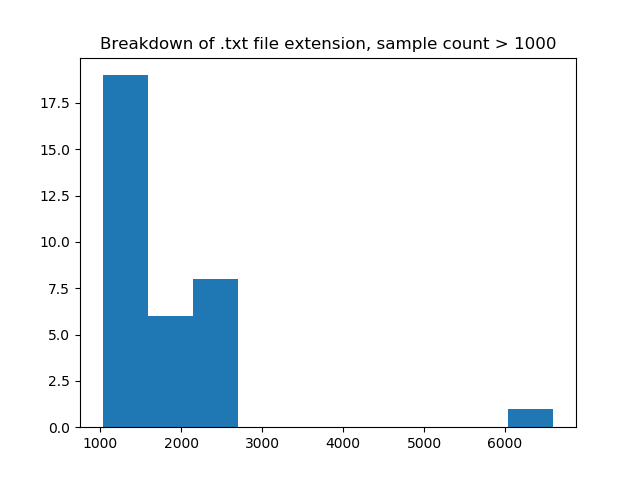
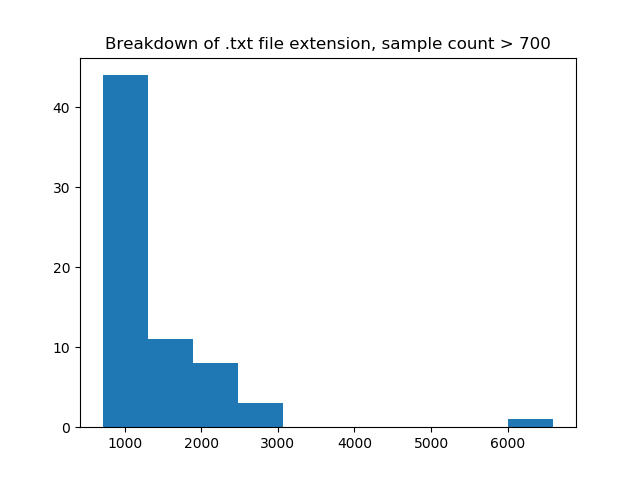
adding images

diff --git a/preprocess/1.count_extensions.py b/preprocess/1.count_extensions.py
@@ -140,6 +140,24 @@ for tick in ax.get_xticklabels():
 plt.title("Top %s extensions, ordered by total samples across ~10K repositories." %len(x))
 plt.show()
 
+# Make loglog plot and say it's zipfy
+def filter_and_logplot(d, value=100, title=None):
+    if title is None:
+        title = "LogLog Plot for Code Samples by Extension Type, > %s samples" %value
+    filtered = filter_by_value(d, value=value)
+    sorted_counts = sort_dict(filtered)
+    x,y = zip(*sorted_counts)
+    plt.loglog(list(range(1,len(y)+1)), y)
+    plt.title(title)
+    plt.show()
+    return filtered
+
+# The plot is almost linear, which means that the extension with rank K appears
+# about 1/K times the most highly ranked extension. This means that the distribution
+# of samples (representing overall proportion of extension types) is roughly 
+# following the pareto principle.
+
+filtered = filter_and_logplot(ext_counts, value=10000)
 
 # Here is my early thinking about this result. First, these are definitely
 # somewhat scientific code repositories, because we see csv and json in the top
@@ -214,31 +232,109 @@ for image_pkl in recursive_find(data_base, 'images_*.pkl'):
 
 # Again, let's look at the distribution for the top .txt files.
 
-title = "Breakdown of .txt file extension, sample count > 1000"
-filtered = filter_and_plot(txt_counts, value=1000, title=title)
+title = "Breakdown of .txt file extension, sample count > 700"
+filtered = filter_and_plot(txt_counts, value=700, title=title)
 
 # The plot isn't super meaningful, but it narrows down our set to the top
-# 34 files names so we can look at them! 
+# 67 files names so we can look at them! 
 
 sorted_counts = sort_dict(filtered)
 x,y = zip(*sorted_counts)
 
 # Plot the result
 pos = numpy.arange(len(x))
-plt.bar(pos,y,color='g')
-width = 1.0     # gives histogram aspect to the bar diagram
+plt.bar(pos,y,color='g', align='center')
 
 ax = plt.axes()
-ax.set_xticks(pos + (width / 2))
+ax.set_xticks(pos)
 ax.set_xticklabels(x)
 
 # Rotate
 for tick in ax.get_xticklabels():
-    tick.set_rotation(45)
+    tick.set_rotation(90)
 
 # Finishing up Counting - visualize counts and discuss!
 
 plt.title("Breakdown of top %s with .txt extension by total samples across ~10K repositories." %len(x))
 plt.show()
 
-# Make loglog plot and say it's zipfy
+
+################################################################################
+
+# Step 1: Look at Meaningful Files
+
+# There are arguably some "known" files (whether the entire name or piece of an
+# extension" that we can look for to same something (broad)a about these code repositories.
+# Remember that we can get a much better picture if we were to bring in metadata,
+# but for this early work I just want to look across the dataset. Let's first
+# look at general prevalence of LICENSE, README, and files that say something
+# about CONTRIBUTING. These I would call the "reproducibility trio," because
+# generally you would want to see something along these lines for open source
+# software.
+
+# We can also look for containers, Dockerfile or Singularity
+
+counts = dict()
+labels = ['readme','docker','singularity','license']
+for label in labels:
+    counts[label] = 0
+
+count = 0  # there are 9642 total
+
+for image_pkl in recursive_find(data_base, 'images_*.pkl'):
+
+    # find those with README, LICENSE, container, or CONTRIBUTING
+
+    try:
+        readme = load_all(image_pkl, regexp='(R|r)(E|e)(A|a)(d|D)(m|M)(e|E)')
+        license = load_all(image_pkl, regexp='(L|l)(I|i)(C|c)(E|e)(N|n)(S|s)(E|e)')
+        sing = load_all(image_pkl, regexp='Singularity')
+        docker = load_all(image_pkl, regexp='Dockerfile')
+        if len(readme) > 0: counts['readme'] += readme.shape[0]
+        if len(license) > 0: counts['license'] += license.shape[0]
+        if len(sing) > 0: counts['singularity'] += sing.shape[0]
+        if len(docker) > 0: counts['docker'] += docker.shape[0]
+    except:
+         print('Error loading %s!' %image_pkl)
+         continue
+
+    count+=1
+    print('Load %s, %s' %(count, counts.values()))
+
+title = "Counts of Reproducible Files in 10K Github Repos"
+sorted_counts = sort_dict(counts)
+x,y = zip(*sorted_counts)
+
+# Plot the result
+pos = numpy.arange(len(x))
+plt.bar(pos,y,color='g', align='center')
+
+ax = plt.axes()
+ax.set_xticks(pos)
+ax.set_xticklabels(x)
+
+# Rotate
+for tick in ax.get_xticklabels():
+    tick.set_rotation(90)
+
+'''
+{'docker': 473,
+ 'license': 31038,
+ 'readme': 42330,
+ 'singularity': 47}
+'''
+
+# How many on average per repo?
+for kind,c in counts.items():
+    avg = c / count
+    print('Average of %s of type %s' %(avg,kind))
+
+# Average of 4.390168014934661 of type readme
+# Average of 0.04905621240406555 of type docker
+# Average of 0.004874507363617507 of type singularity
+# Average of 3.2190416925948973 of type license
+
+# Finishing up Counting - visualize counts and discuss!
+
+plt.title(title)
+plt.show()

diff --git a/preprocess/helpers/load.py b/preprocess/helpers/load.py
@@ -34,6 +34,7 @@ def load_all(image_pkl,
              pad_images=True,
              length_cutoff=30,
              padding_length=80,
+             regexp=None,
              script_name=None):
 
     '''load all data from repository, ignoring extensions, etc.
@@ -47,6 +48,7 @@ def load_all(image_pkl,
        length_cutoff: images with fewer than length_cutoff lines discarded
        padding_length: add padding so length == this value (# lines)
        script_name: if defined, load only scripts with this name included.
+       regexp: if provided, use a regular expression to filter
        
     '''
 
@@ -58,7 +60,11 @@ def load_all(image_pkl,
     for filename,subset in images.items():
 
         # Skip script if doesn't match name, if user wants this
-        if script_name is not None:
+        if regexp is not None:
+            if not re.search(regexp, filename):
+                continue
+
+        elif script_name is not None:
             if script_name.lower() not in filename:
                 continue
 
